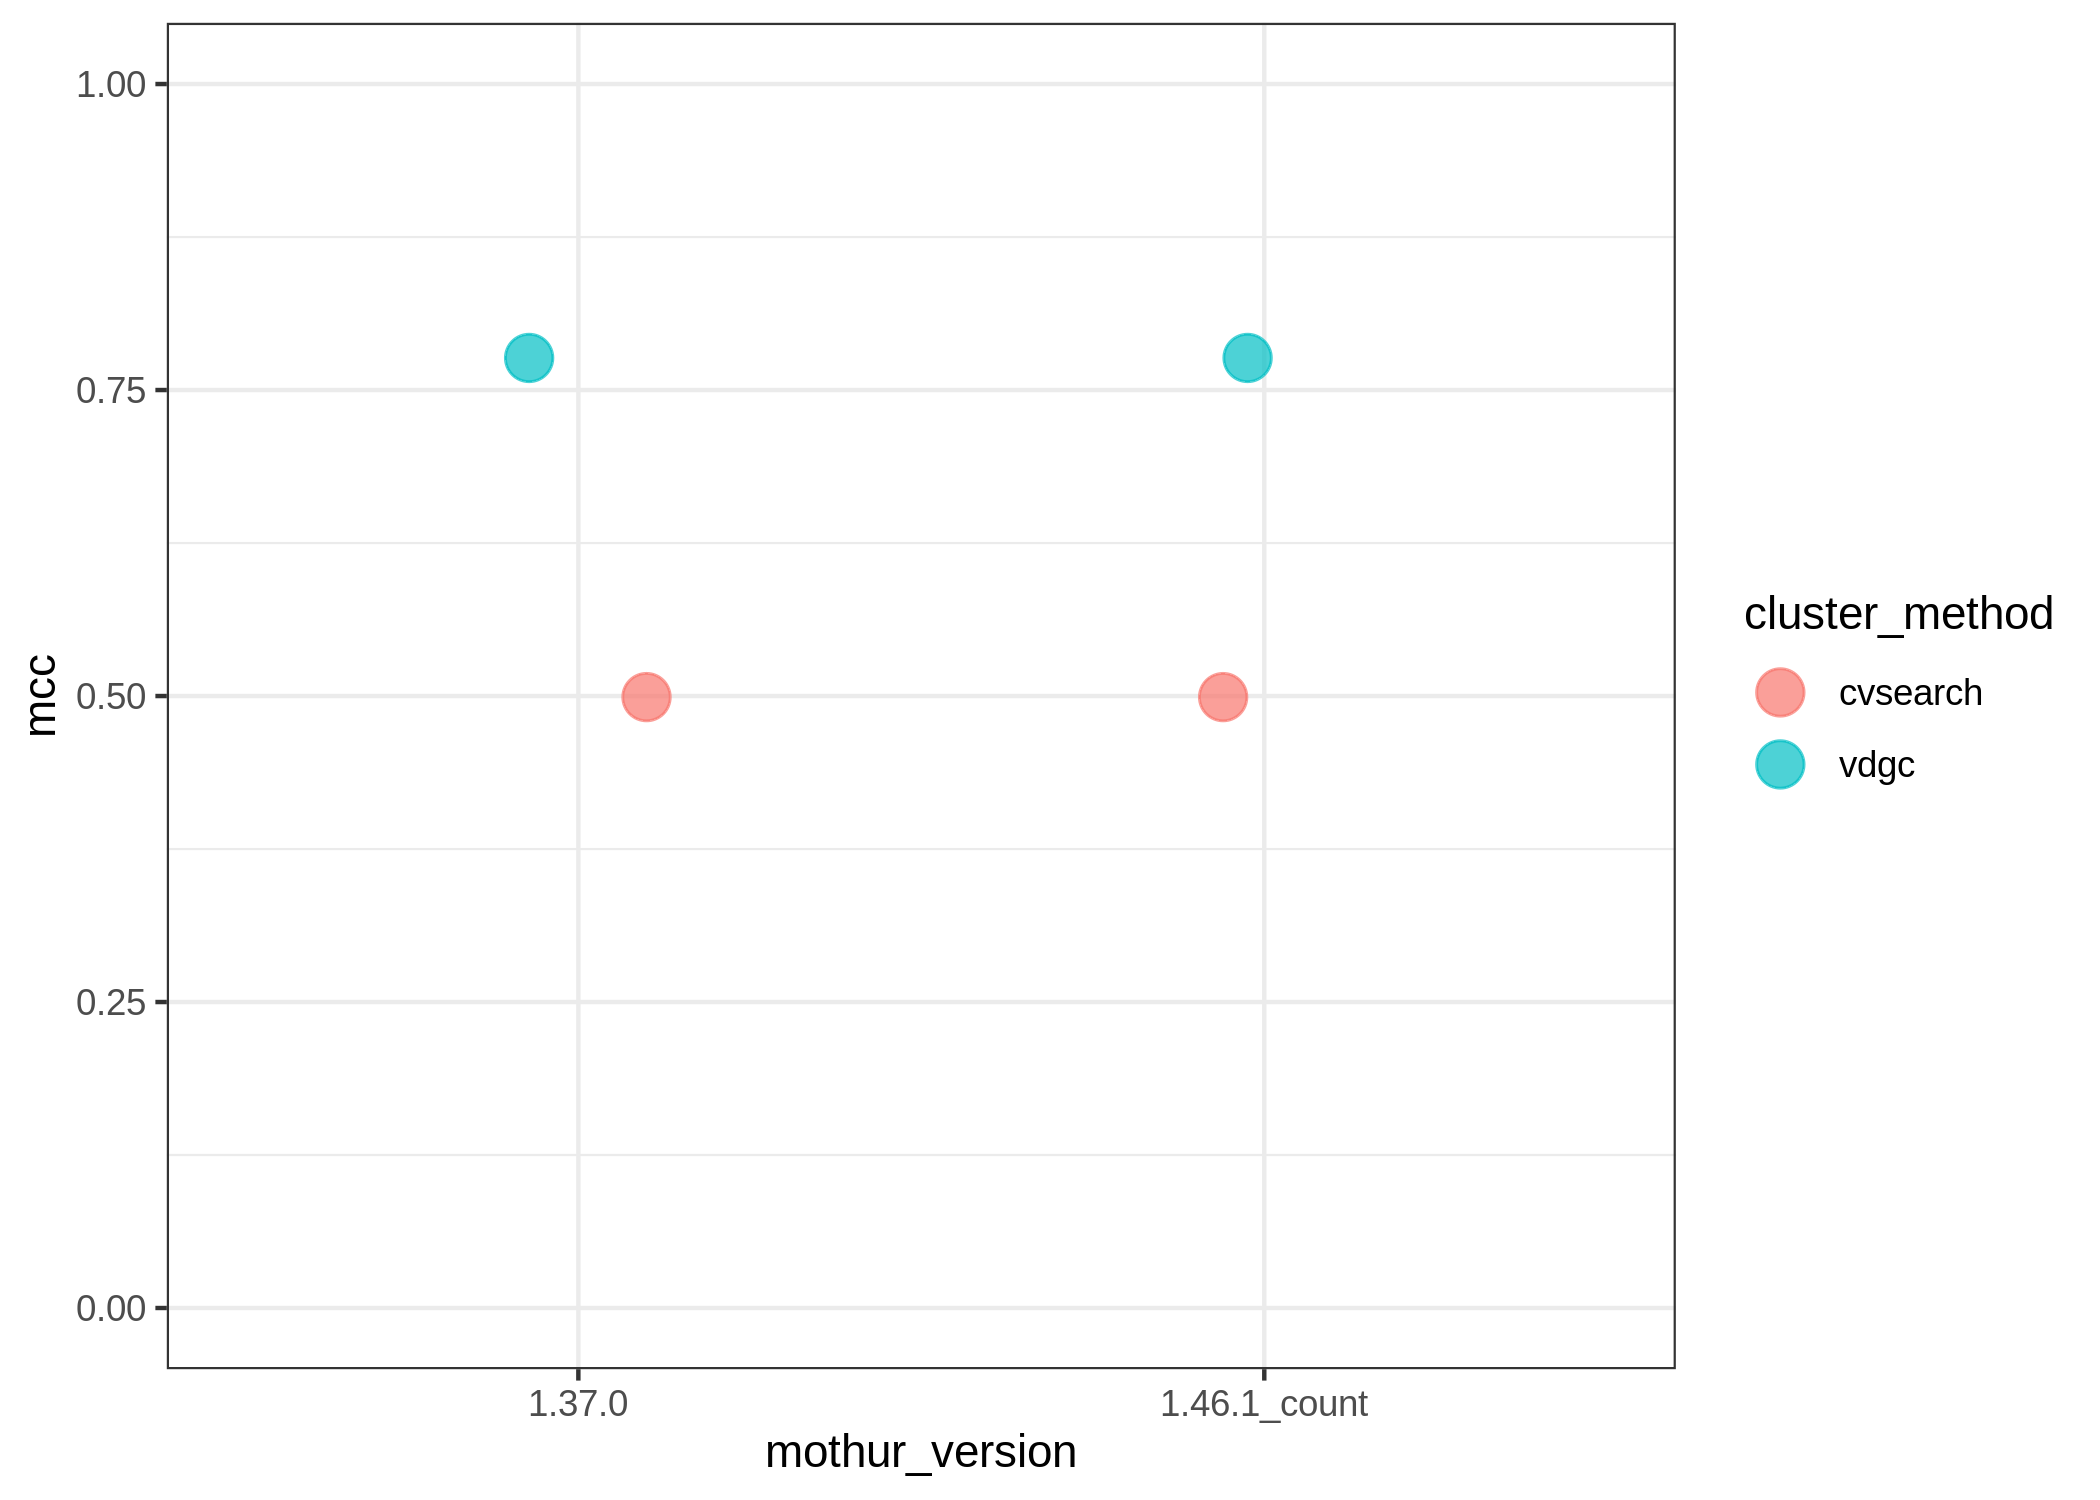
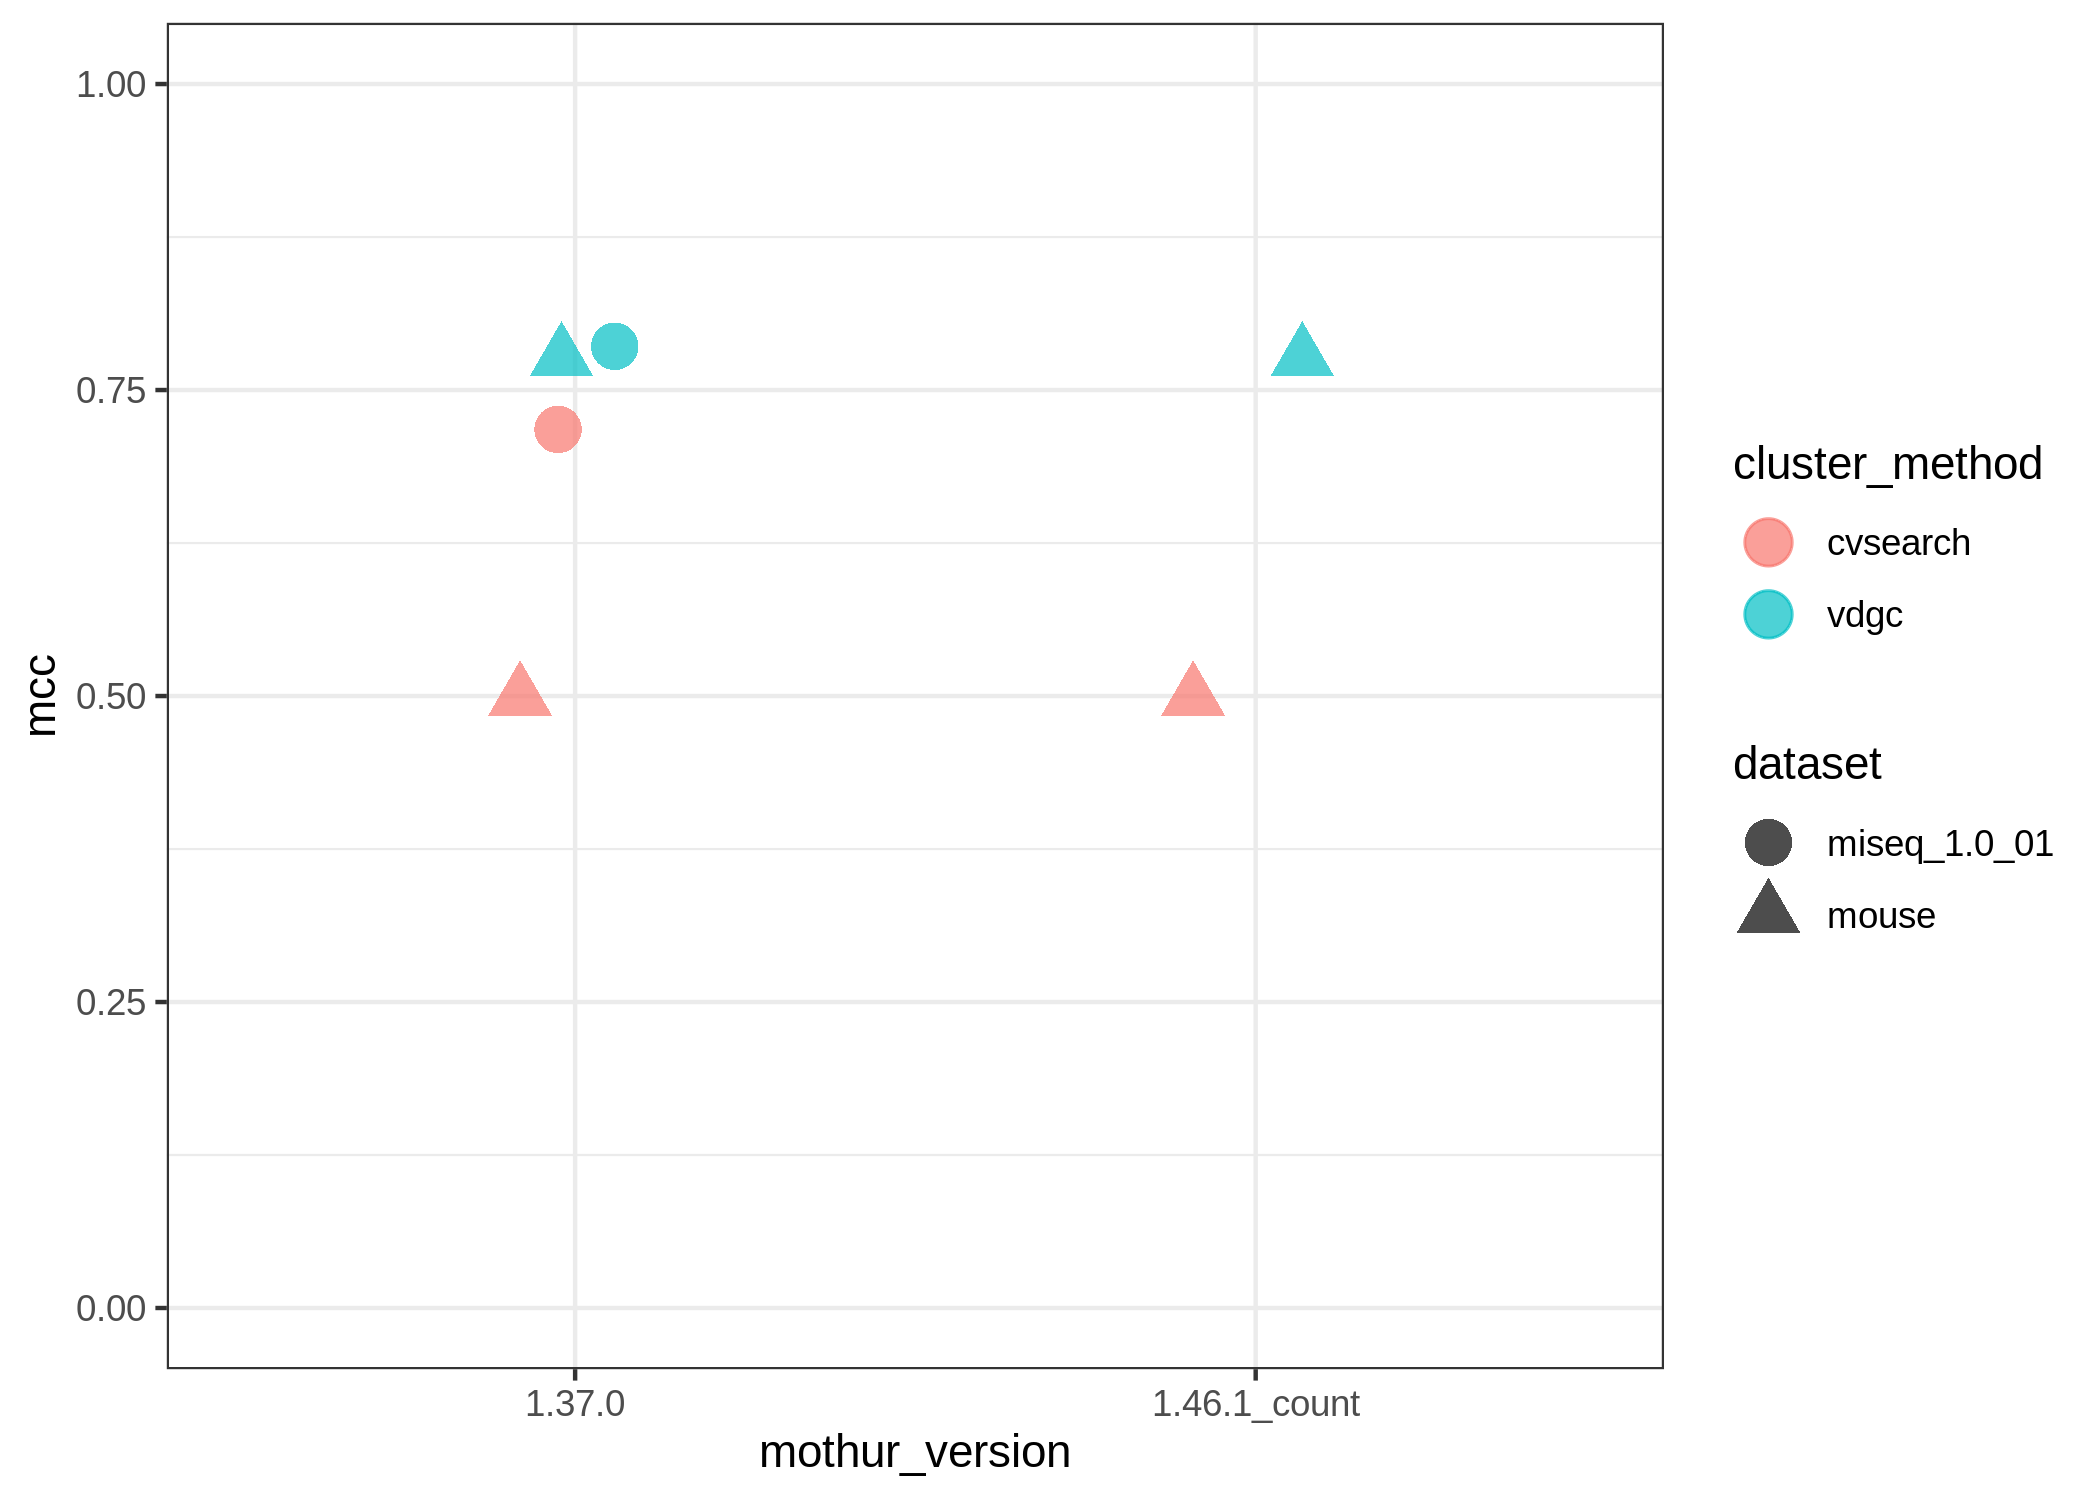
Run with miseq too

diff --git a/README.md b/README.md
@@ -11,7 +11,7 @@ dat <- read_tsv(here('results', 'sensspec_concat.tsv'))
 ```
 
     ## 
-    ## ── Column specification ──────────────────────────────────────────────────────────────────
+    ## ── Column specification ────────────────────────────────────────────────────────
     ## cols(
     ##   label = col_character(),
     ##   cutoff = col_double(),
@@ -38,19 +38,21 @@ dat <- read_tsv(here('results', 'sensspec_concat.tsv'))
 head(dat)
 ```
 
-    ## # A tibble: 4 x 19
+    ## # A tibble: 6 x 19
     ##   label cutoff     tp     tn     fp     fn sensitivity specificity   ppv   npv
     ##   <chr>  <dbl>  <dbl>  <dbl>  <dbl>  <dbl>       <dbl>       <dbl> <dbl> <dbl>
-    ## 1 user…   0.03 6.28e6 6.33e8 3.23e6 5.53e5       0.919       0.995 0.660 0.999
-    ## 2 user…   0.03 5.37e6 6.26e8 1.11e7 1.46e6       0.786       0.983 0.326 0.998
+    ## 1 user…   0.03 6.38e6 6.32e8 3.07e6 5.54e5       0.920       0.995 0.675 0.999
+    ## 2 user…   0.03 5.47e6 4.96e8 2.81e6 1.47e6       0.789       0.994 0.661 0.997
     ## 3 user…   0.03 6.28e6 6.33e8 3.23e6 5.53e5       0.919       0.995 0.660 0.999
     ## 4 user…   0.03 5.37e6 6.26e8 1.11e7 1.46e6       0.786       0.983 0.326 0.998
+    ## 5 user…   0.03 6.28e6 6.33e8 3.23e6 5.53e5       0.919       0.995 0.660 0.999
+    ## 6 user…   0.03 5.37e6 6.26e8 1.11e7 1.46e6       0.786       0.983 0.326 0.998
     ## # … with 9 more variables: fdr <dbl>, accuracy <dbl>, mcc <dbl>, f1score <dbl>,
     ## #   mothur_version <chr>, dataset <chr>, filetype <chr>, cluster_method <chr>,
     ## #   numotus <dbl>
 
 ``` r
-dat %>% ggplot(aes(x=mothur_version, y=mcc, color=cluster_method)) +
+dat %>% ggplot(aes(x=mothur_version, y=mcc, color=cluster_method, shape=dataset)) +
   geom_point(position = position_jitter(width=0.1, height = 0),
              size = 5, alpha=0.7) +
   ylim(0,1) +
